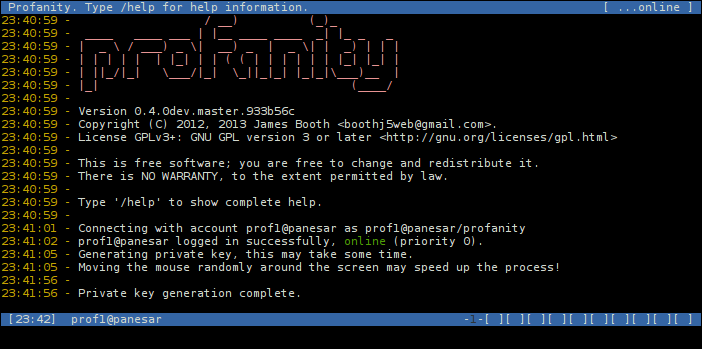
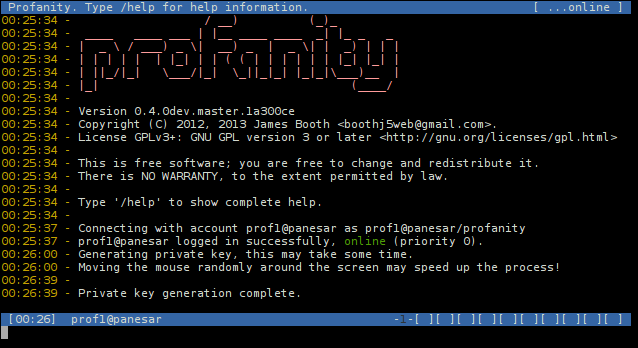
Addded install guide to OTR page, updated images

diff --git a/otr.html b/otr.html
@@ -25,6 +25,7 @@
             <ul>
                 <li><a href="#what-is-otr">What is Off The Record messaging?</a>
                 <li><a href="#why-bother">Why bother?</a>
+                <li><a href="installing-otr">Building with OTR support</a>
                 <li><a href="#private-key-gen">Generating a private key</a>
                 <li><a href="#exchanging-fingerprints">Exchanging fingerprints</a>
                 <li><a href="#starting-otr-session">Starting an OTR session</a>
@@ -42,9 +43,7 @@
             <p>If you already know about OTR and it's benefits, you can skip the first two sections and go straight to <a href="#private-key-gen">Generating a private key</a>.</p>
             
             <p>Off The Record (OTR) messaging is a form of secure messaging, it includes encryption, authentication between users, deniability and perfect forward secrecy.</p>
-            <p>An overview and many useful resources can be found at the <a id="otr-site" href="https://otr.cypherpunks.ca/">OTR site</a>.</p>
-            <p>Currently supported features are encryption and authentication. If the <code>libotr-dev</code> library is available, Profanity will compile with OTR support.</p>
-            <p>Supported <code>libotr</code> versions are 3.2.x, work is in progress to be compatible with 4.0.0.</p>
+            <p>An overview and many useful resources can be found at the <a id="otr-site" target="_blank" href="https://otr.cypherpunks.ca/">OTR site</a>.</p>
         </section>
         <section>
             <a name="why-bother"></a>
@@ -57,6 +56,18 @@
             <p>Secondly, even though you can guarantee that your messages are encrypted from your client to your server, you cannot guarantee that they will be encrypted for their entire journey to your contact's client.</p>
             <p>The messages may travel through a number of servers, and finally from a server to your contact's client, any of these journeys may be over a non TLS secured connection.</p>
             <p>OTR is one method of Application Layer Security which guarantees your messages are encrypted from client to client, ensuring that no one else can read them.</p>
+        </section>
+        <section>
+            <a name="installing-otr"></a>
+            <h3>Building with OTR support</h3>
+
+            <p>Currently supported features are encryption and authentication. If the <code>libotr-dev</code> library is available, Profanity will compile with OTR support.</p>
+            <p>Supported <code>libotr</code> versions are 3.2.x, work is in progress to be compatible with 4.0.0.</p>
+            <p>On most distributions there is simply a <code>libotr-dev</code> package you need to install first.</p>
+            <p>On Cygwin you will need to install the <code>libgcrypt-devel</code> package first.  Secondly you will need <code>libotr-devel</code> package which is not currently in the
+                offical repositories. You can install it from the <a id="cyg-ports" target="_blank" href="https://sourceware.org/cygwinports/">Cygwin Ports project</a>.</p>
+            <p>To force a fail if OTR support cannot be configured, use the following during the <code>./configure</code> stage:</p>
+            <pre><code>./configure --enable-otr</code></pre>
         </section>
         <section>
             <a name="private-key-gen"></a>

diff --git a/js/trackclicks.js b/js/trackclicks.js
@@ -46,4 +46,8 @@ $(document).ready(function () {
     $("#louiecaulfield-macports").click(function (e) {
         _gaq.push(['_trackEvent', 'links', 'clicked', "mac-ports"]);
     });
+
+    $("#cyg-ports").click(function (e) {
+        _gaq.push(['_trackEvent', 'links', 'clicked', "cygwin ports"]);
+    });
 });
